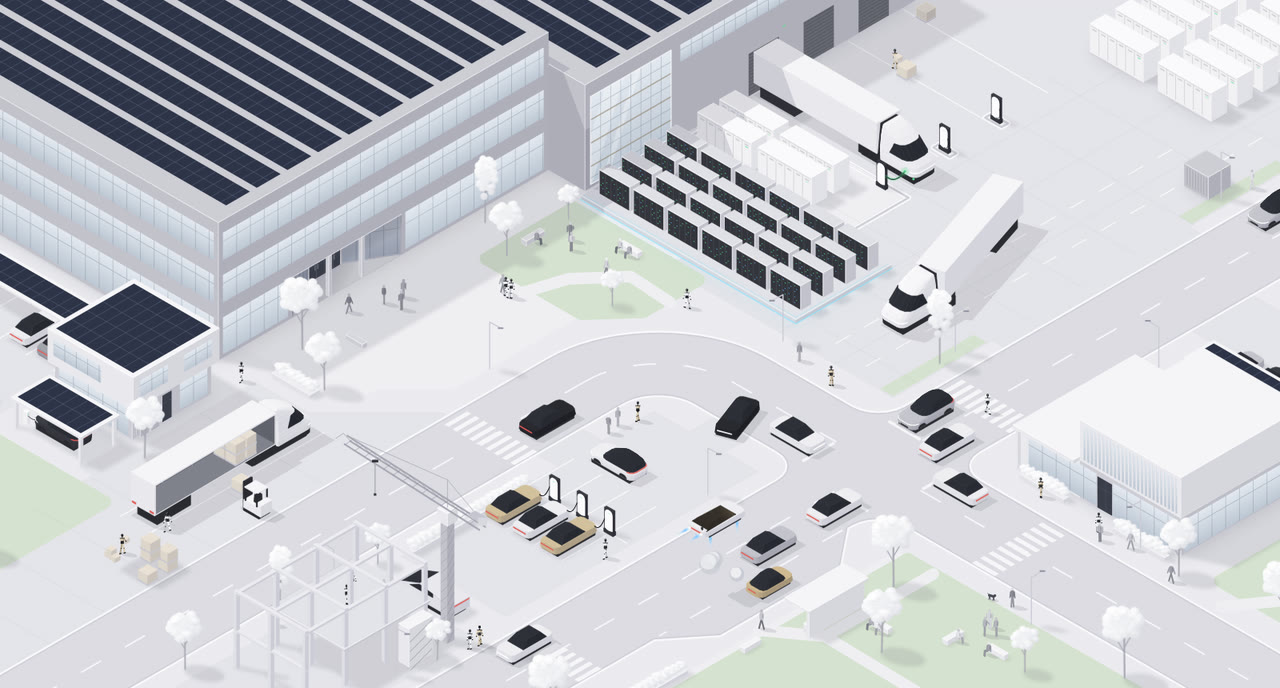
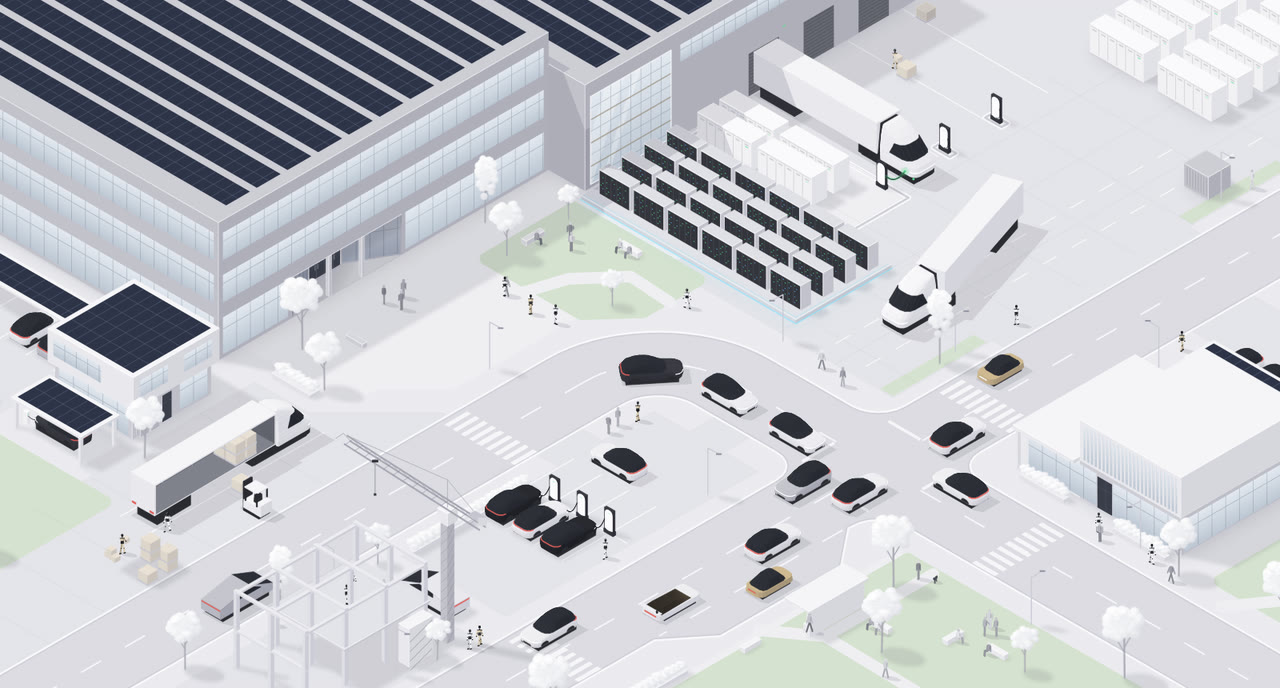
Make every car a Model Y, and retire the generic sedan
Vehicles: the scene's line-up is the SUV (Model Y), the pickup, the robotaxi
pod and van, the roadster and the semi. The older generic sedan (the 'car'
kind) is gone:
- its share of through traffic (46 %) goes to the SUV, at 7.2 m/s;
- the charging lot, the stall lots and their parked rows hold only SUVs;
- its mesh, its size, its night lights and its row in the dev gallery are
  removed.
The draws that used to choose between sedan and SUV are kept, unused, so the
seeded scene stays as it was (trees, people and parked cars all come from
one random stream).

Colours: with only the SUV taking paint from the list, pal.paints is now its
range (white twice, silver, graphite, black), in both themes, and the swap
in paints.ts is no longer needed. paintFor keeps the pickup silver. The SUV
parked by the house keeps its graphite.

Docs: the vehicle line-up and colours in docs/engine.md, and the traffic
line in the README. README previews re-recorded.

Checks: typecheck, tests, check:components and the build pass. check:sim
60: 0 collisions, 0 vehicles touching people, truck runs as usual.

Claude-Session: https://claude.ai/code/session_012ySDiovrfsgi18gJzxxVM6

diff --git a/src/engine/activities/stallLot.ts b/src/engine/activities/stallLot.ts
@@ -15,7 +15,6 @@ import { FnItem } from '../statics';
 import { MESH } from '../traffic/meshes';
 import type { Vehicle } from '../traffic/vehicle';
 import type { Leg } from '../traffic/legs';
-import { paintFor } from '../traffic/paints';
 import { Mutex, type Activity, type Env } from './activity';
 import { carMats } from '../palette';
 
@@ -62,10 +61,10 @@ export class StallLot implements Activity {
     const { pal, rng, statics } = env;
     for (const s of plan.stalls) {
       if (!s.isLive) {
-        const kind = rng() < 0.65 ? 'car' : 'suv';
-        const paint = paintFor(pal, kind, pick(rng, pal.paints));
+        rng(); // was the sedan-or-SUV draw, kept so the seeded scene stays as it was
+        const paint = pick(rng, pal.paints);
         statics.push(
-          new FnItem(s.x - 1.0, s.y - 2.5, 0, s.x + 1.0, s.y + 2.5, 1.65, (r) => drawMesh(r, MESH[kind], s.x, s.y, 0, 0, s.dir, carMats(pal, paint)), (ctx) =>
+          new FnItem(s.x - 1.0, s.y - 2.5, 0, s.x + 1.0, s.y + 2.5, 1.65, (r) => drawMesh(r, MESH.suv, s.x, s.y, 0, 0, s.dir, carMats(pal, paint)), (ctx) =>
             rectShadow(ctx, s.x, s.y, 0, s.dir, 2.35, 0.98, 1.2),
           ).still(),
         );
@@ -130,7 +129,8 @@ export class StallLot implements Activity {
   private spawn(s: Stall) {
     const { traffic, pal, rng } = this.env;
     const a = this.plan.arrive;
-    const v = traffic.add(rng() < 0.6 ? 'car' : 'suv', pick(rng, pal.paints), [
+    rng(); // was the sedan-or-SUV draw, kept so the seeded scene stays as it was
+    const v = traffic.add('suv', pick(rng, pal.paints), [
       { path: P(a.pts, a.radii), tag: 'in', vmax: 7, until: (vv) => this.lot.take(vv), done: () => (this.incoming = null) },
       this.park(s),
       ...this.leave(s),
@@ -142,7 +142,8 @@ export class StallLot implements Activity {
   /** A car already in its stall, charging (for the opening frame). */
   private seed(s: Stall) {
     const { traffic, pal, rng } = this.env;
-    const v = traffic.add(rng() < 0.6 ? 'car' : 'suv', pick(rng, pal.paints), [
+    rng(); // was the sedan-or-SUV draw, kept so the seeded scene stays as it was
+    const v = traffic.add('suv', pick(rng, pal.paints), [
       { path: P([[s.x, s.y - s.dir * 0.1], [s.x, s.y]]), vmax: 1, ghost: true, ...this.charge(rr(rng, 6, 26)), arrive: (vv: Vehicle) => (vv.charging = true) },
       ...this.leave(s),
     ], this.plan.role);

diff --git a/src/engine/activities/chargingLot.ts b/src/engine/activities/chargingLot.ts
@@ -29,8 +29,8 @@ export class ChargingLot implements Activity {
     for (const x of this.stalls) this.parked.push({ x, paint: pick(rng, pal.paints) });
     for (const p of this.parked) {
       statics.push(
-        new FnItem(p.x - 1.0, 67.6, 0, p.x + 1.0, 72.4, 1.45, (r) => drawMesh(r, MESH.car, p.x, 70.0, 0, 0, -1, carMats(pal, p.paint)), (ctx) =>
-          rectShadow(ctx, p.x, 70, 0, -1, 2.3, 0.95, 1.1),
+        new FnItem(p.x - 1.0, 67.5, 0, p.x + 1.0, 72.5, 1.65, (r) => drawMesh(r, MESH.suv, p.x, 70.0, 0, 0, -1, carMats(pal, p.paint)), (ctx) =>
+          rectShadow(ctx, p.x, 70, 0, -1, 2.35, 0.98, 1.2),
         ).still(),
       );
     }
@@ -86,8 +86,8 @@ export class ChargingLot implements Activity {
     const { traffic, pal, rng } = this.env;
     const sx = this.stalls[i];
     this.busy[i] = true;
-    const kind = rng() < 0.6 ? 'car' : 'suv';
-    const v = traffic.add(kind, pick(rng, pal.paints), [
+    rng(); // was the sedan-or-SUV draw, kept so the seeded scene stays as it was
+    const v = traffic.add('suv', pick(rng, pal.paints), [
       // wait for the lot inside its entrance, well clear of the street and of trucks swinging round the bend
       { path: P([[50, 135], [50, 48], [60.4, 48], [60.4, 55.6]], [6, 2.5]), vmax: 7, until: (vv) => this.lot.take(vv), done: () => (this.incoming = null) },
       { path: P([[60.4, 55.6], [60.4, 57.5], [sx, 61.5], [sx, 64.2]], [2, 2]), vmax: 2.4, ghost: true, ...this.charge(rr(rng, 14, 30)) },
@@ -102,7 +102,8 @@ export class ChargingLot implements Activity {
     const { traffic, pal, rng } = this.env;
     const sx = this.stalls[i];
     this.busy[i] = true;
-    const v = traffic.add(rng() < 0.6 ? 'car' : 'suv', pick(rng, pal.paints), [
+    rng(); // was the sedan-or-SUV draw, kept so the seeded scene stays as it was
+    const v = traffic.add('suv', pick(rng, pal.paints), [
       { path: P([[sx, 64.1], [sx, 64.2]]), vmax: 1, ghost: true, ...this.charge(rr(rng, 4, 20)), arrive: (vv: Vehicle) => (vv.charging = true) },
       ...this.leave(i, sx),
     ], 'lot');

diff --git a/src/engine/traffic/paints.ts b/src/engine/traffic/paints.ts
@@ -1,21 +1,17 @@
-// Which colours each kind of vehicle comes in. Callers pick from the palette's paints as they always have (so the
-// random stream, and the rest of the scene, stays as it is); a kind with a narrower range swaps what it was given.
+// Which colours each kind of vehicle comes in. The palette's paints are the Model Y's colours (white, silver,
+// graphite, black) and callers pick from them; a kind with a narrower range swaps what it was given, so the random
+// stream, and the rest of the scene, stays as it is.
 
 import type { Mat } from '../core';
 import type { Palette } from '../palette';
 import type { VehicleKind } from './meshes';
 
-/** The palette's paints by index: 0, 1 white, 2 silver, 3 grey, 4 graphite, 5 black, 6 champagne. */
+/** The palette's paints by index: 0, 1 white, 2 silver, 3 graphite, 4 black. */
 const SILVER = 2;
-/** The SUV comes in white, silver, graphite or black: grey becomes silver and champagne becomes white. */
-const SUV_SWAP: Partial<Record<number, number>> = { 3: SILVER, 6: 0 };
 
-/** The paint a vehicle of `kind` wears when given `paint`: the pickup is always silver; the SUV keeps to its range. */
+/** The paint a vehicle of `kind` wears when given `paint`: the pickup is always silver, the rest as given. */
 export function paintFor(pal: Palette, kind: VehicleKind, paint: Mat): Mat {
-  const i = pal.paints.indexOf(paint);
   // anything not from the paint list (the robotaxis' gold, a semi's white) is the caller's own choice
-  if (i < 0) return paint;
-  if (kind === 'pickup') return pal.paints[SILVER];
-  if (kind === 'suv') return pal.paints[SUV_SWAP[i] ?? i];
+  if (kind === 'pickup' && pal.paints.includes(paint)) return pal.paints[SILVER];
   return paint;
 }

diff --git a/src/engine/traffic/paints.test.ts b/src/engine/traffic/paints.test.ts
@@ -6,24 +6,19 @@ describe.each([
   ['light', lightPalette()],
   ['dark', darkPalette()],
 ])('paintFor (%s)', (_name, pal) => {
-  // white is listed twice, so it comes up twice as often
-  const [white, white2, silver, , graphite, black] = pal.paints;
-
-  it('keeps the SUV to white, silver, graphite and black', () => {
-    const allowed = [white, white2, silver, graphite, black];
-    for (const p of pal.paints) expect(allowed).toContain(paintFor(pal, 'suv', p));
+  it('offers only the Model Y colours: white (twice), silver, graphite and black', () => {
+    expect(pal.paints).toHaveLength(5);
   });
 
-  it('leaves an SUV already in one of its colours as it is', () => {
-    for (const p of [white, white2, silver, graphite, black]) expect(paintFor(pal, 'suv', p)).toBe(p);
+  it('lets the SUV wear any of them', () => {
+    for (const p of pal.paints) expect(paintFor(pal, 'suv', p)).toBe(p);
   });
 
   it('always paints the pickup silver', () => {
-    for (const p of pal.paints) expect(paintFor(pal, 'pickup', p)).toBe(silver);
+    for (const p of pal.paints) expect(paintFor(pal, 'pickup', p)).toBe(pal.paints[2]);
   });
 
-  it('lets cars wear any paint, and leaves colours from outside the list alone', () => {
-    for (const p of pal.paints) expect(paintFor(pal, 'car', p)).toBe(p);
+  it('leaves colours from outside the list alone', () => {
     expect(paintFor(pal, 'pod', pal.gold)).toBe(pal.gold);
     expect(paintFor(pal, 'semi', pal.white)).toBe(pal.white);
   });

diff --git a/demo/gallery.ts b/demo/gallery.ts
@@ -18,13 +18,13 @@ export function gallery(root: HTMLElement) {
   ctx.fillRect(0, 0, c.width, c.height);
   const scale = 22 * dpr;
   const r: R = { ctx, t: 0, hair: 0.7 / scale, scale, night: false };
-  const kinds = ['car', 'suv', 'pickup', 'pod', 'van', 'roadster', 'tractor', 'forklift', 'crate'] as const;
+  const kinds = ['suv', 'pickup', 'pod', 'van', 'roadster', 'tractor', 'forklift', 'crate'] as const;
   kinds.forEach((k, row) => {
     for (let i = 0; i < 8; i++) {
       const a = (i / 8) * Math.PI * 2;
       const X = 90 + i * 190, Y = 70 + row * 105;
       ctx.setTransform(scale, 0, 0, scale, X * dpr, Y * dpr);
-      const mats = [k === 'pod' || k === 'van' ? pal.gold : pal.paints[k === 'car' || k === 'roadster' ? 0 : 3], k === 'roadster' ? pal.tintGlass : pal.carGlass, pal.tyre, pal.headlight, pal.taillight, pal.white, pal.robot, pal.robotHead];
+      const mats = [k === 'pod' || k === 'van' ? pal.gold : pal.paints[k === 'roadster' ? 0 : 2], k === 'roadster' ? pal.tintGlass : pal.carGlass, pal.tyre, pal.headlight, pal.taillight, pal.white, pal.robot, pal.robotHead];
       drawMesh(r, MESH[k], 0, 0, 0, Math.cos(a), Math.sin(a), mats);
     }
   });

diff --git a/src/engine/traffic/meshes.ts b/src/engine/traffic/meshes.ts
@@ -34,16 +34,6 @@ function lights(m: MeshBuilder, l: number, w: number, z0: number, z1: number, ma
 }
 
 export const MESH = {
-  car: (() => {
-    const m = new MeshBuilder();
-    m.frustum(box(-2.05, 2.05, 0.86), 0, box(-2.05, 2.05, 0.86), 0.44, 2, 2);
-    const body = rounded(2.35, 0.97, 0.42, 2);
-    m.frustum(body, 0.3, body.map(([l, w]) => [l * 0.97 - 0.04, w * 0.95]), 0.86, 0, 0);
-    m.frustum(box(-1.6, 0.95, 0.86), 0.86, box(-1.12, 0.22, 0.6), 1.42, 1, 1);
-    lights(m, 2.351, 0.62, 0.6, 0.67, 3);
-    lights(m, -2.351, 0.66, 0.64, 0.72, 4);
-    return m.build();
-  })(),
   suv: suvMesh(),
   pickup: (() => {
     const m = new MeshBuilder();
@@ -181,11 +171,10 @@ export const MESH = {
   })(),
 };
 
-export type VehicleKind = 'car' | 'suv' | 'pickup' | 'pod' | 'van' | 'roadster' | 'semi' | 'forklift';
+export type VehicleKind = 'suv' | 'pickup' | 'pod' | 'van' | 'roadster' | 'semi' | 'forklift';
 
 export const DIMS: Record<VehicleKind, [number, number, number]> = {
   // half length, half width, height
-  car: [2.38, 0.98, 1.42],
   suv: [2.43, 1.0, 1.65],
   pickup: [2.88, 1.06, 1.98],
   pod: [1.92, 0.96, 1.33],

diff --git a/src/engine/palette.ts b/src/engine/palette.ts
@@ -46,7 +46,7 @@ export interface Palette {
   ledBlue: string;
   ledWarm: string;
   // vehicles
-  /** car paints; which of them each kind may wear is in `traffic/paints.ts` */
+  /** the cars' paints, the Model Y's colours: white (twice, so it comes up more often), silver, graphite, black */
   paints: Mat[];
   gold: Mat;
   carGlass: Mat;
@@ -120,10 +120,8 @@ export function lightPalette(): Palette {
       mat('#f4f4f6', 0.2), // white
       mat('#f4f4f6', 0.2),
       mat('#c9cad0', 0.24), // silver
-      mat('#a7a9b1', 0.26), // grey
       mat('#3d3f46', 0.36), // graphite
       mat('#2b2c31', 0.38), // black
-      mat('#d9c7a0', 0.26), // champagne gold
     ],
     gold: mat('#d6c094', 0.28),
     carGlass: mat('#2f323a', 0.32),
@@ -187,10 +185,8 @@ export function darkPalette(): Palette {
       mat('#7d808a', 0.34),
       mat('#6c6f78', 0.34),
       mat('#555861', 0.36),
-      mat('#3e4048', 0.36),
       mat('#2b2c32', 0.38),
       mat('#1f2025', 0.38),
-      mat('#9c8a63', 0.34),
     ],
     gold: mat('#a8915f', 0.34),
     carGlass: mat('#14151a', 0.3),

diff --git a/src/engine/world/roads.ts b/src/engine/world/roads.ts
@@ -64,7 +64,7 @@ export function carSpawner(env: Env, density: number) {
   const paths = routes.map((rt) => Path.poly(rt.pts, rt.r));
   const totalW = routes.reduce((a, r) => a + r.w, 0);
   // semis only come for the yard and the loading bay, not as through traffic
-  const kinds: [VehicleKind, number, number][] = [['car', 0.46, 7.4], ['suv', 0.28, 7], ['pod', 0.13, 6.4], ['pickup', 0.08, 7], ['van', 0.05, 6]];
+  const kinds: [VehicleKind, number, number][] = [['suv', 0.74, 7.2], ['pod', 0.13, 6.4], ['pickup', 0.08, 7], ['van', 0.05, 6]];
   let spawnT = 0;
   const targetCars = Math.round(11 * density);
   const spawnCar = () => {

diff --git a/src/engine/lights.ts b/src/engine/lights.ts
@@ -12,7 +12,6 @@ import type { VehicleKind } from './traffic/meshes';
 /** Light bar position per kind, from the meshes in vehicles.ts: [distance along the body, half width, height]. */
 type Bar = readonly [number, number, number];
 const BARS: Partial<Record<VehicleKind, { front: Bar; rear: Bar; reach: number }>> = {
-  car: { front: [2.35, 0.62, 0.64], rear: [-2.35, 0.66, 0.68], reach: 7 },
   suv: { front: [2.42, 0.7, 0.78], rear: [-2.38, 0.72, 0.94], reach: 7 },
   pickup: { front: [2.85, 0.98, 0.94], rear: [-2.85, 1.0, 1.18], reach: 7.5 },
   pod: { front: [1.9, 0.38, 0.58], rear: [-1.9, 0.4, 0.59], reach: 5.5 },

diff --git a/src/engine/world/buildings.ts b/src/engine/world/buildings.ts
@@ -207,7 +207,7 @@ export function buildings(env: Env, edge: string) {
     }),
   );
   {
-    S.push(new FnItem(22.2, 86.5, 0, 27.0, 88.5, 1.65, (r) => drawMesh(r, MESH.suv, 24.6, 87.5, 0, -1, 0, carMats(pal, pal.paints[4])), (ctx) => rectShadow(ctx, 24.6, 87.5, -1, 0, 2.3, 0.95, 1.2)).still());
+    S.push(new FnItem(22.2, 86.5, 0, 27.0, 88.5, 1.65, (r) => drawMesh(r, MESH.suv, 24.6, 87.5, 0, -1, 0, carMats(pal, pal.paints[3])), (ctx) => rectShadow(ctx, 24.6, 87.5, -1, 0, 2.3, 0.95, 1.2)).still());
   }
 }
 /** The construction site: a steel frame on a slab, a stair tower, the pickup, the crane and the workers. */

diff --git a/docs/engine.md b/docs/engine.md
@@ -14,9 +14,9 @@
   `pal.night`): it would keep the old theme. Where a colour must be worked out once (people's clothes, a vehicle's
   lamp slots) redo it when `pal.generation` moves on (`Walker.recolor`, `recolor` in `traffic/vehicleItem.ts`). Box edges take
   `CLAY_EDGE`, which `edgeColor` resolves by theme.
-- Vehicle colours (`traffic/paints.ts`, applied by `traffic.add`): the pickup is always silver, never gold; the SUV
-  only white, silver, graphite or black; the robotaxi pods and vans are gold (`pal.gold`); cars take any of
-  `pal.paints`. A car drawn without `traffic.add` (one parked as scenery) goes through `paintFor` itself.
+- Vehicles: the SUV (every car on the road and in the car parks), the pickup, the robotaxi pod and van, the roadster
+  and the semi. Colours: `pal.paints` holds only the SUV's (white, silver, graphite, black); the pickup is always
+  silver (`traffic/paints.ts`, applied by `traffic.add`); the robotaxis are gold (`pal.gold`).
 - Static scenery is baked once per size into device-pixel-aligned bitmaps (`BoxItem`, `FnItem.still()` in
   `statics.ts`); only `.live()` overlays (LEDs, status lights) draw every frame. The ground, roads and static shadows
   are one cached layer (`Scene.renderGround`, `world/groundPlan.ts`).

diff --git a/README.md b/README.md
@@ -45,9 +45,10 @@ any other React setup.
 
 ## What's in the scene
 
-- **Traffic**: cars, SUVs, an angular pickup, two-seat robotaxis and a robovan drive a small road network. They stop
-  at an invisible signal at the junction, give way to people already on the zebra crossings, and hold back while a
-  truck pulls out. Semis only come for the yard and the loading bay, so there are never more than two at once.
+- **Traffic**: sleek crossovers in white, silver, graphite or black, a silver angular pickup, two-seat robotaxis and
+  a robovan drive a small road network. They stop at an invisible signal at the junction, give way to people already
+  on the zebra crossings, and hold back while a truck pulls out. Semis only come for the yard and the loading bay,
+  so there are never more than two at once.
 - **Truck yard**: a semi turns in off the avenue, drives down the yard lane past one of the two docks, then backs in
   with the trailer swinging round. It loads under a green dock lamp, pulls out, and backs into the charging bay
   beside the docks, charges, then pulls out across the yard and turns onto the avenue once there's a gap. Every spot
